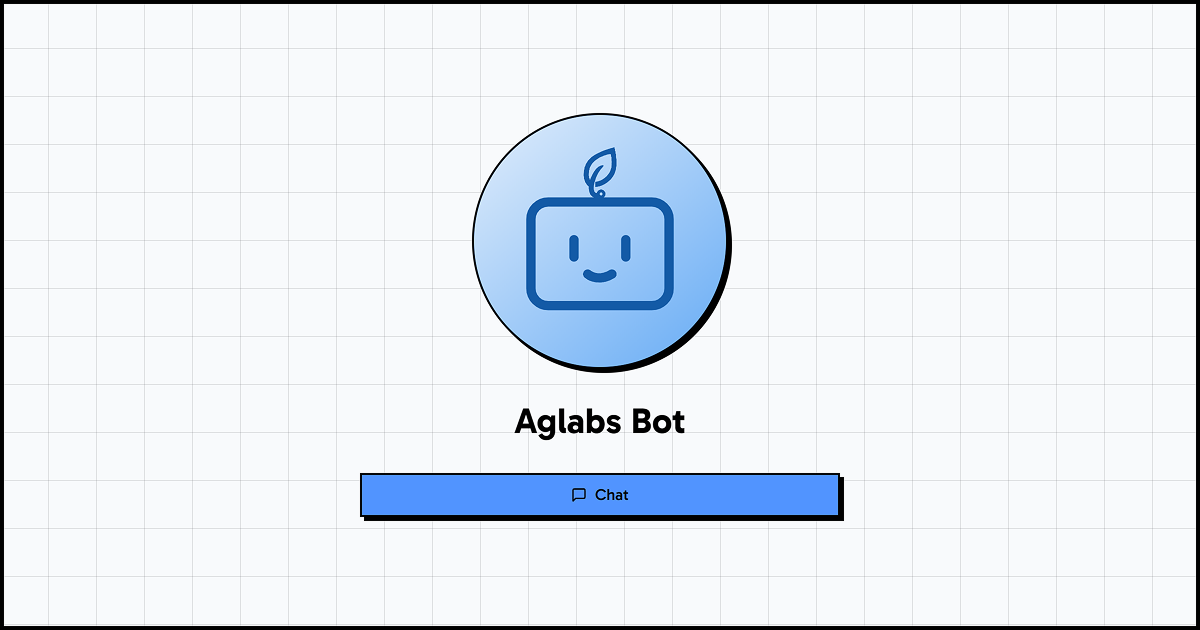
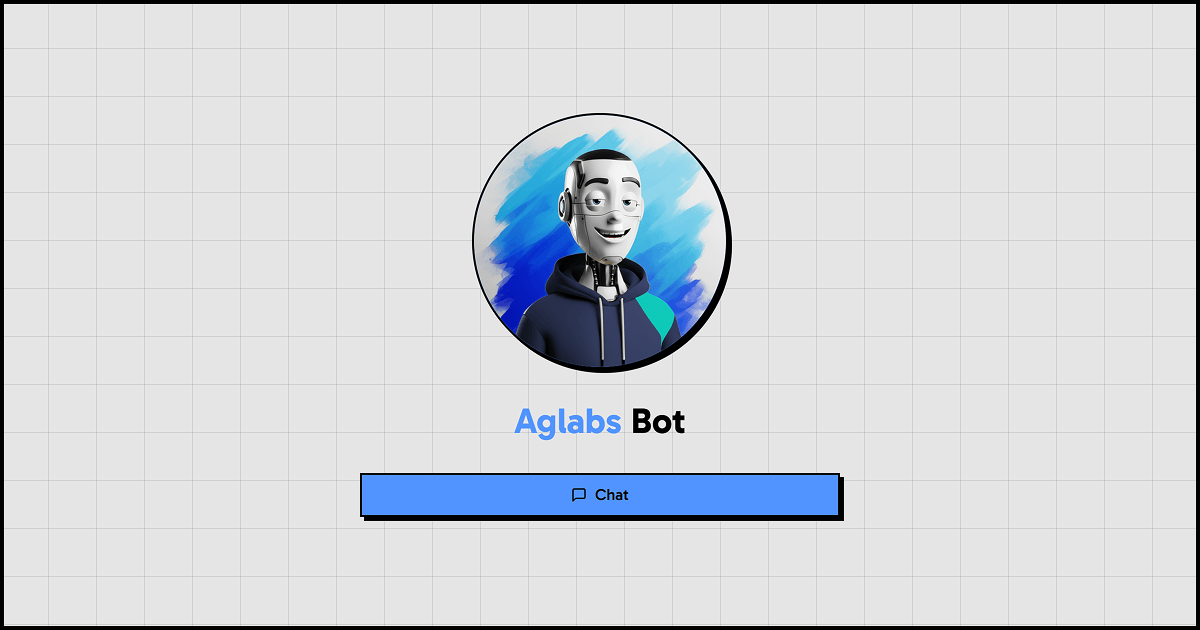
feat(bot): change assets

Changed region(s): [[0.37, 0.181, 0.6167, 0.6032], [0.4317, 0.6333, 0.5242, 0.6937]]

diff --git a/apps/bot/app/layout.tsx b/apps/bot/app/layout.tsx
@@ -28,7 +28,7 @@ export default function RootLayout({
         className={cn(
           fontSans.variable,
           'border-border flex min-h-screen items-center border-4 font-sans antialiased',
-          'bg-slate-50 bg-[linear-gradient(to_right,#80808033_1px,transparent_1px),linear-gradient(to_bottom,#80808033_1px,transparent_1px)] bg-[size:48px_48px]',
+          'bg-[#E5E5E5] bg-[linear-gradient(to_right,#80808033_1px,transparent_1px),linear-gradient(to_bottom,#80808033_1px,transparent_1px)] bg-[size:48px_48px]',
         )}
         suppressHydrationWarning
       >

diff --git a/apps/bot/app/page.tsx b/apps/bot/app/page.tsx
@@ -6,7 +6,7 @@ export default function Home() {
     <main className="mx-auto flex w-full max-w-lg flex-col items-center justify-center space-y-8 px-4 py-8">
       <div className="px-4">
         <ImageCard
-          imageUrl="logo.svg"
+          imageUrl="logo.png"
           caption="Aglabs Bot"
           className="max-w-3xs rounded-full"
         />
